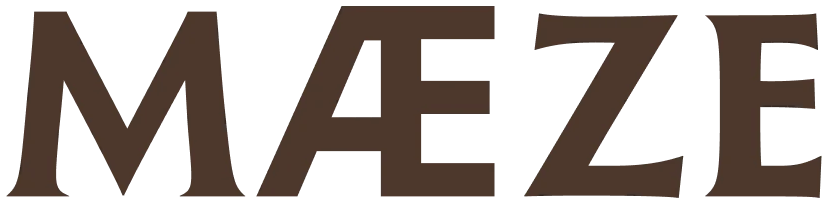
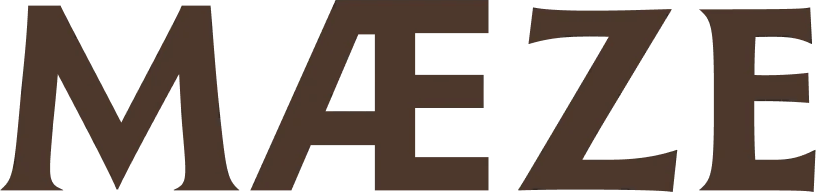
Desktop intro: trim wordmark and QR margins so everything aligns on the left

diff --git a/style.css b/style.css
@@ -123,17 +123,19 @@ html.desk #stage { cursor: default; }
   margin: 0;
   width: 100%;
   max-width: 300px;
-  aspect-ratio: 828 / 204;
+  aspect-ratio: 816 / 192;
   background-color: currentColor;
-  -webkit-mask: url(img/wordmark.png) center / contain no-repeat;
-  mask: url(img/wordmark.png) center / contain no-repeat;
+  -webkit-mask: url(img/wordmark.png) left center / contain no-repeat;
+  mask: url(img/wordmark.png) left center / contain no-repeat;
 }
 .d-by { margin: 22px 0 0; font-size: 15px; letter-spacing: .02em; opacity: .75; }
 .d-text { margin: 26px 0 0; font-size: 17px; line-height: 1.55; }
 .d-how { list-style: none; margin: 28px 0 0; padding: 18px 0 0; border-top: 1px solid var(--line); font-size: 14px; line-height: 1.9; opacity: .85; }
 .d-how b { font-weight: 600; }
-.d-qr { display: flex; align-items: center; gap: 16px; margin-top: 30px; }
-.d-qr img { width: 96px; height: 96px; border-radius: 8px; flex: none; }
+.d-qr { display: flex; align-items: center; gap: 20px; margin-top: 30px; }
+.d-qr img { width: 88px; height: 88px; flex: none; box-sizing: content-box; }
+/* the code is trimmed so it lines up with the text; on the umber pages it needs its own sand margin to scan */
+html.desk[data-theme="U"] .d-qr img { padding: 8px; background: var(--sand); border-radius: 6px; }
 .d-qr p { margin: 0; font-size: 14px; line-height: 1.5; opacity: .85; }
 
 .d-map { position: relative; }

diff --git a/index.html b/index.html
@@ -13,7 +13,7 @@
 <link rel="icon" type="image/png" sizes="192x192" href="icon-192.png">
 <meta name="description" content="MÆZE: six questions lead you from the Providence Athenæum's card catalog to one word in one book. A touch prototype by ÆEEEE.">
 <title>MÆZE</title>
-<link rel="stylesheet" href="style.css?v=20261113b">
+<link rel="stylesheet" href="style.css?v=20261113c">
 </head>
 <body>
 <main id="app" aria-label="MÆZE prototype">
@@ -29,7 +29,7 @@
       <li><b>Esc</b> to go back</li>
     </ul>
     <div class="d-qr">
-      <img src="qr/maze-qr.svg" alt="QR code for jkwon20241.github.io/maze" width="96" height="96">
+      <img src="img/qr-trim.svg" alt="QR code for jkwon20241.github.io/maze" width="88" height="88">
       <p>Made for the hand.<br>Scan to walk it on your phone.</p>
     </div>
   </aside>
@@ -43,7 +43,7 @@
   </aside>
 </main>
 <div class="edge top"></div><div class="edge bottom"></div>
-<script src="assets.js?v=20261113b"></script>
-<script src="app.js?v=20261113b"></script>
+<script src="assets.js?v=20261113c"></script>
+<script src="app.js?v=20261113c"></script>
 </body>
 </html>
